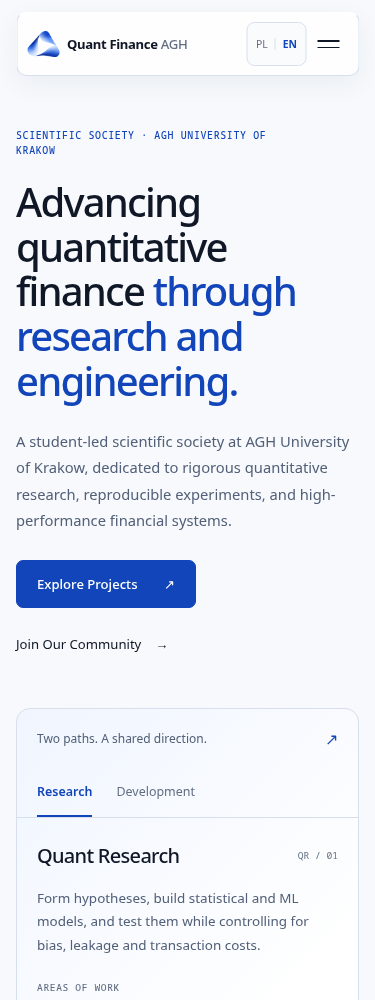
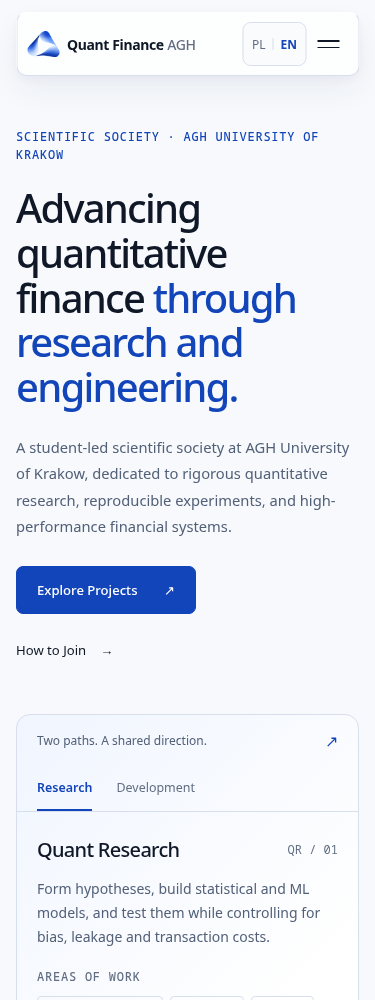
Refine Phase 1 hero, panel typography, and navigation glass

diff --git a/src/styles.css b/src/styles.css
@@ -43,22 +43,22 @@ a { color: inherit; }
 .visually-hidden { position: absolute; width: 1px; height: 1px; padding: 0; margin: -1px; overflow: hidden; clip-path: inset(50%); white-space: nowrap; border: 0; }
 .skip-link { position: fixed; left: 24px; top: 24px; z-index: 300; padding: 14px 20px; border-radius: 6px; background: var(--ink); color: white; transform: translateY(-150%); }
 .skip-link:focus { transform: none; }
-.eyebrow, .code-label { margin: 0; color: var(--accent); font: 500 .7rem/1.5 var(--mono); letter-spacing: .065em; text-transform: uppercase; }
+.eyebrow, .code-label { margin: 0; color: var(--accent); font: 500 .75rem/1.5 var(--mono); letter-spacing: .065em; text-transform: uppercase; }
 [data-reveal] { opacity: 0; transform: translateY(6px); transition: opacity 400ms ease, transform 400ms var(--ease-out); }
 [data-reveal][data-visible] { opacity: 1; transform: none; }
 
 /* Glass is limited to navigation. Opaque materials are the default fallback. */
 .site-header { position: fixed; z-index: 100; top: 24px; left: 50%; width: var(--shell); transform: translateX(-50%); }
-.site-header__material { position: relative; z-index: 2; min-height: 72px; display: flex; align-items: center; justify-content: space-between; gap: 24px; padding: 10px 22px; border: 1px solid var(--line); border-top-color: white; border-radius: var(--radius); background: var(--surface); box-shadow: var(--shadow), inset 0 1px 0 white; }
+.site-header__material { position: relative; z-index: 2; min-height: 72px; display: flex; align-items: center; justify-content: space-between; gap: 24px; padding: 10px 22px; border: 1px solid rgb(118 145 188 / 28%); border-top-color: rgb(255 255 255 / 90%); border-radius: var(--radius); background: var(--surface); box-shadow: 0 3px 12px rgb(25 53 100 / 4%), 0 14px 32px rgb(25 53 100 / 6%), inset 0 1px 0 rgb(255 255 255 / 65%); }
 .brand { display: inline-flex; align-items: center; gap: 12px; text-decoration: none; white-space: nowrap; }
-.brand__symbol { width: 44px; height: 37px; object-fit: contain; }
-.brand strong { font-size: 1rem; letter-spacing: -.025em; font-weight: 650; }
+.brand__symbol { width: 48px; height: 41px; object-fit: contain; }
+.brand strong { font-size: 1.0625rem; letter-spacing: -.025em; font-weight: 650; }
 .brand strong span { color: var(--quiet); font-weight: 450; }
 .desktop-navigation { display: flex; align-items: center; gap: 32px; }
-.desktop-navigation a { display: inline-flex; align-items: center; min-height: 44px; text-decoration: none; color: var(--muted); font-size: .82rem; }
+.desktop-navigation a { display: inline-flex; align-items: center; min-height: 44px; text-decoration: none; color: var(--muted); font-size: .875rem; }
 .desktop-navigation a:hover { color: var(--accent); }
 .header-actions { display: flex; align-items: center; gap: 12px; }
-.language-button { min-height: 44px; display: flex; align-items: center; gap: 10px; padding: 0 12px; border: 1px solid var(--line); border-radius: 8px; background: var(--bg); color: var(--quiet); cursor: pointer; font-size: .7rem; }
+.language-button { min-height: 44px; display: flex; align-items: center; gap: 10px; padding: 0 12px; border: 1px solid var(--line); border-radius: 8px; background: var(--bg); color: var(--quiet); cursor: pointer; font-size: .75rem; }
 .language-button span[data-active] { color: var(--accent); font-weight: 700; }
 .language-divider { width: 1px; height: 12px; background: var(--line); }
 .menu-button { display: none; width: 44px; height: 44px; padding: 12px 9px; border: 0; border-radius: 6px; background: transparent; color: var(--ink); cursor: pointer; }
@@ -66,48 +66,47 @@ a { color: inherit; }
 .menu-button[aria-expanded="true"] span:first-child { transform: translateY(3.25px) rotate(45deg); }
 .menu-button[aria-expanded="true"] span:last-child { transform: translateY(-3.25px) rotate(-45deg); }
 .mobile-menu-scrim, .mobile-menu { display: none; }
-@supports ((backdrop-filter: blur(1px)) or (-webkit-backdrop-filter: blur(1px))) {
-  .site-header__material, .mobile-menu { background: rgb(255 255 255 / 82%); -webkit-backdrop-filter: blur(22px) saturate(1.15); backdrop-filter: blur(22px) saturate(1.15); }
-  .language-button { background: rgb(247 249 252 / 72%); }
-}
 
 /* An editorial hero; the track panel supports the message without simulating data. */
-.hero { position: relative; display: grid; grid-template-columns: minmax(0, 1.55fr) minmax(0, 1fr); align-items: center; column-gap: 72px; padding-top: 208px; }
-.hero-copy { padding-block: 12px 32px; }
-.hero h1 { max-width: 780px; margin: 26px 0 30px; font-size: clamp(2.75rem, 4.15vw, 4rem); line-height: 1.09; letter-spacing: -.048em; font-weight: 520; text-wrap: balance; }
+.hero { position: relative; display: grid; grid-template-columns: minmax(0, 1.55fr) minmax(0, 1fr); align-items: center; column-gap: 64px; padding-top: 176px; }
+.hero-copy { padding-block: 0; }
+.hero h1 { max-width: 780px; margin: 22px 0 24px; font-size: clamp(2.75rem, 3.8vw, 3.25rem); line-height: 1.13; letter-spacing: -.048em; font-weight: 520; text-wrap: balance; }
+@media (min-width: 1101px) {
+  .hero h1 span, .hero h1 em { display: block; }
+}
 .hero h1 em { color: var(--accent); font-style: normal; }
-.hero-lead { max-width: 580px; margin: 0; color: var(--muted); font-size: 1rem; line-height: 1.8; }
-.hero-actions { display: flex; align-items: center; flex-wrap: wrap; gap: 24px; margin-top: 34px; }
+.hero-lead { max-width: 580px; margin: 0; color: var(--muted); font-size: 1rem; line-height: 1.75; }
+.hero-actions { display: flex; align-items: center; flex-wrap: wrap; gap: 24px; margin-top: 28px; }
 .primary-button { min-height: 48px; display: inline-flex; align-items: center; justify-content: space-between; gap: 26px; padding: 12px 20px; border: 1px solid var(--accent); border-radius: 7px; background: var(--accent); color: white; cursor: pointer; text-decoration: none; font-size: .82rem; font-weight: 550; }
 .primary-button:hover { background: #0f3794; border-color: #0f3794; }
 .secondary-link { min-height: 48px; display: inline-flex; align-items: center; gap: 14px; color: var(--ink); font-size: .82rem; text-decoration: none; }
 .secondary-link:hover { color: var(--accent); }
-.hero-caption { grid-column: 1 / -1; display: flex; justify-content: space-between; gap: 24px; margin-top: 80px; padding-block: 24px; border-top: 1px solid var(--line); color: var(--quiet); font: .65rem/1.6 var(--mono); letter-spacing: .06em; text-transform: uppercase; }
+.hero-caption { grid-column: 1 / -1; display: flex; justify-content: space-between; gap: 24px; margin-top: 48px; padding-block: 20px; border-top: 1px solid var(--line); color: var(--quiet); font: .75rem/1.6 var(--mono); letter-spacing: .06em; text-transform: uppercase; }
 .hero-caption > span:last-child { letter-spacing: 0; }
 .hero-caption span span { padding-inline: 10px; color: var(--blue-soft); }
 .path-console { overflow: hidden; border: 1px solid var(--line); border-radius: var(--radius); background: linear-gradient(135deg, #f0f5ff, #fff 70%); }
-.path-console__header { min-height: 60px; display: flex; align-items: center; justify-content: space-between; gap: 16px; padding: 16px 26px; color: var(--muted); font-size: .75rem; }
+.path-console__header { min-height: 52px; display: flex; align-items: center; justify-content: space-between; gap: 16px; padding: 14px 24px; color: var(--muted); font-size: .75rem; }
 .path-console__header > span:last-child { color: var(--accent); font-size: 1rem; }
-.path-tabs { display: flex; gap: 24px; padding-inline: 26px; border-bottom: 1px solid var(--line); }
-.path-tab { min-height: 48px; padding: 10px 0; border: 0; border-bottom: 2px solid transparent; background: transparent; color: var(--quiet); cursor: pointer; font-size: .78rem; }
+.path-tabs { display: flex; gap: 24px; padding-inline: 24px; border-bottom: 1px solid var(--line); }
+.path-tab { min-height: 44px; padding: 10px 0; border: 0; border-bottom: 2px solid transparent; background: transparent; color: var(--quiet); cursor: pointer; font-size: .78rem; }
 .path-tab:hover { color: var(--accent); }
 .path-tab[aria-selected="true"] { color: var(--accent); border-bottom-color: var(--accent); font-weight: 600; }
-.path-panel { padding: 28px 26px; }
+.path-panel { padding: 24px; }
 .path-panel[hidden] { display: none; }
 .path-panel__title { display: flex; align-items: center; justify-content: space-between; gap: 12px; }
 .path-panel__title h2 { margin: 0; font-size: 1.35rem; letter-spacing: -.035em; font-weight: 550; }
-.path-code { color: var(--quiet); font: .6rem var(--mono); white-space: nowrap; }
-.path-description { min-height: 92px; margin: 18px 0 24px; color: var(--muted); font-size: .84rem; line-height: 1.75; }
-.path-panel .code-label { color: var(--quiet); font-size: .6rem; }
-.skill-list { display: flex; flex-wrap: wrap; gap: 7px; padding: 0; margin: 12px 0 28px; list-style: none; min-height: 60px; align-content: flex-start; }
-.skill-list li { padding: 5px 9px; border: 1px solid var(--line); border-radius: 4px; color: var(--muted); font-size: .68rem; line-height: 1.4; }
-.path-output { padding-top: 20px; border-top: 1px solid var(--line); }
-.path-output span { display: block; margin-bottom: 8px; color: var(--quiet); font-size: .7rem; }
-.path-output strong { color: var(--accent); font: .67rem/1.7 var(--mono); font-weight: 400; overflow-wrap: anywhere; }
+.path-code { color: var(--quiet); font: .75rem var(--mono); white-space: nowrap; }
+.path-description { margin: 14px 0 20px; color: var(--muted); font-size: .875rem; line-height: 1.7; }
+.path-panel .code-label { color: var(--quiet); font-size: .75rem; }
+.skill-list { display: flex; flex-wrap: wrap; gap: 7px; padding: 0; margin: 10px 0 20px; list-style: none; align-content: flex-start; }
+.skill-list li { padding: 5px 9px; border: 1px solid var(--line); border-radius: 4px; color: var(--muted); font-size: .8125rem; line-height: 1.45; }
+.path-output { padding-top: 16px; border-top: 1px solid var(--line); }
+.path-output span { display: block; margin-bottom: 8px; color: var(--quiet); font-size: .75rem; }
+.path-output strong { color: var(--accent); font: .75rem/1.7 var(--mono); font-weight: 400; overflow-wrap: anywhere; }
 
 /* Existing lower sections: structure retained, foundations aligned to the brand. */
 .principle { min-height: 220px; display: grid; grid-template-columns: .67fr 1.33fr; border-bottom: 1px solid var(--line); }
-.principle__label { display: flex; align-items: center; padding-right: 40px; color: var(--accent); font: .65rem/1.6 var(--mono); text-transform: uppercase; }
+.principle__label { display: flex; align-items: center; padding-right: 40px; color: var(--accent); font: .75rem/1.6 var(--mono); text-transform: uppercase; }
 .principle p { margin: 0; align-self: center; padding-block: 48px; color: var(--muted); font-size: clamp(1.5rem, 2.2vw, 2.2rem); line-height: 1.3; letter-spacing: -.03em; }
 .principle p span { color: var(--ink); }
 .section-block { padding-block: var(--space-7); }
@@ -118,39 +117,39 @@ a { color: inherit; }
 .project-grid { display: grid; grid-template-columns: 1.2fr .9fr .9fr; border: 1px solid var(--line); border-radius: var(--radius); overflow: hidden; background: var(--surface); }
 .project-card { min-height: 400px; display: flex; flex-direction: column; padding: 24px; border-right: 1px solid var(--line); }
 .project-card:last-child { border-right: 0; }
-.project-card__meta { display: flex; justify-content: space-between; flex-wrap: wrap; gap: 12px; color: var(--quiet); font: .6rem/1.6 var(--mono); }
+.project-card__meta { display: flex; justify-content: space-between; flex-wrap: wrap; gap: 12px; color: var(--quiet); font: .75rem/1.6 var(--mono); }
 .project-card__visual { flex: 1; display: grid; place-items: center; min-height: 160px; color: var(--accent); }
 .project-card__visual span { font: 400 3rem/1 var(--mono); }
 .project-card__visual i { display: none; }
 .project-card__content { margin-top: auto; }
-.proposed-badge { display: inline-flex; margin-bottom: 14px; color: var(--accent); font: .65rem var(--mono); }
+.proposed-badge { display: inline-flex; margin-bottom: 14px; color: var(--accent); font: .75rem var(--mono); }
 .project-card h3 { margin: 0 0 12px; font-size: 1.25rem; letter-spacing: -.025em; font-weight: 550; }
 .project-card p { margin: 0; color: var(--muted); font-size: .85rem; line-height: 1.75; }
 .work-process { display: grid; grid-template-columns: repeat(4, 1fr); margin: 0; padding: 0; overflow: hidden; border: 1px solid var(--line); border-radius: var(--radius); list-style: none; background: var(--surface); }
 .work-step { min-height: 330px; display: flex; flex-direction: column; padding: 26px; border-right: 1px solid var(--line); }
 .work-step:last-child { border-right: 0; }
-.work-step__meta { display: flex; justify-content: space-between; gap: 12px; color: var(--quiet); font: .65rem var(--mono); }
+.work-step__meta { display: flex; justify-content: space-between; gap: 12px; color: var(--quiet); font: .75rem var(--mono); }
 .work-step__meta span:first-child { color: var(--accent); }
 .work-step h3 { margin: 48px 0 16px; font-size: 2rem; font-weight: 500; letter-spacing: -.04em; }
 .work-step p { margin: 0; color: var(--muted); font-size: .84rem; line-height: 1.75; }
-.work-step__output { margin-top: auto; padding-top: 24px; color: var(--accent); font: .65rem/1.6 var(--mono); }
+.work-step__output { margin-top: auto; padding-top: 24px; color: var(--accent); font: .75rem/1.6 var(--mono); }
 .community { padding-block: var(--space-7); border-bottom: 1px solid var(--line); background: #eef3fb; }
 .community__inner { display: grid; grid-template-columns: 1.12fr .88fr; gap: 64px; }
 .community__statement > p:last-child { max-width: 620px; margin: 24px 0 0; color: var(--muted); font-size: .95rem; line-height: 1.8; }
 .industry-card { display: flex; flex-direction: column; padding: 32px; border: 1px solid var(--line); border-radius: var(--radius); background: var(--surface); }
-.industry-card__header { color: var(--accent); font: .6rem/1.6 var(--mono); text-transform: uppercase; }
+.industry-card__header { color: var(--accent); font: .75rem/1.6 var(--mono); text-transform: uppercase; }
 .industry-card__header i { display: none; }
 .industry-card h3 { margin: 32px 0 18px; font-size: 1.65rem; line-height: 1.25; letter-spacing: -.03em; font-weight: 520; }
 .industry-card > p { margin: 0; color: var(--muted); font-size: .85rem; line-height: 1.75; }
 .industry-card ul { display: grid; grid-template-columns: repeat(3, 1fr); gap: 12px; margin: 28px 0 0; padding: 20px 0 0; border-top: 1px solid var(--line); list-style: none; }
 .industry-card li { display: grid; gap: 10px; }
-.industry-card li span { color: var(--accent); font: .6rem var(--mono); }
-.industry-card li strong { font-size: .72rem; font-weight: 500; }
+.industry-card li span { color: var(--accent); font: .75rem var(--mono); }
+.industry-card li strong { font-size: .75rem; font-weight: 500; }
 .community-pillars { grid-column: 1 / -1; display: grid; grid-template-columns: repeat(3, 1fr); border-top: 1px solid var(--line); }
 .community-pillars article { padding: 30px; border-right: 1px solid var(--line); }
 .community-pillars article:first-child { padding-left: 0; }
 .community-pillars article:last-child { border-right: 0; }
-.community-pillars span { color: var(--accent); font: .65rem var(--mono); }
+.community-pillars span { color: var(--accent); font: .75rem var(--mono); }
 .community-pillars h3 { margin: 32px 0 12px; font-size: 1.2rem; font-weight: 550; }
 .community-pillars p { margin: 0; color: var(--muted); font-size: .85rem; line-height: 1.75; }
 .recruitment { position: relative; padding-block: var(--space-7); }
@@ -161,7 +160,7 @@ a { color: inherit; }
 .requirements { border-top: 1px solid var(--line); }
 .requirements > h3 { margin: 0; padding: 22px 0; color: var(--muted); font-size: .8rem; font-weight: 500; }
 .requirements article { display: grid; grid-template-columns: 32px 1fr; gap: 18px; padding: 22px 0; border-top: 1px solid var(--line); }
-.requirements article > span { color: var(--accent); font: .65rem var(--mono); }
+.requirements article > span { color: var(--accent); font: .75rem var(--mono); }
 .requirements strong { font-size: .95rem; font-weight: 550; }
 .requirements article p { margin: 8px 0 0; color: var(--muted); font-size: .85rem; line-height: 1.75; }
 .requirements__note { margin: 24px 0 0; color: var(--quiet); font-size: .8rem; line-height: 1.7; }
@@ -178,7 +177,7 @@ a { color: inherit; }
 .application-items article { display: grid; grid-template-columns: 24px 1fr; gap: 18px; padding: 22px; border-right: 1px solid var(--line); border-bottom: 1px solid var(--line); }
 .application-items article:nth-child(2n) { border-right: 0; }
 .application-items article:nth-last-child(-n + 2) { border-bottom: 0; }
-.application-items article > span { color: var(--accent); font: .65rem var(--mono); }
+.application-items article > span { color: var(--accent); font: .75rem var(--mono); }
 .application-items h3 { margin: 0 0 9px; font-size: 1rem; font-weight: 550; }
 .application-items p { margin: 0; color: var(--muted); font-size: .85rem; line-height: 1.7; }
 .footer { display: grid; grid-template-columns: 1fr auto 1fr; gap: 64px; padding-block: 48px 64px; border-top: 1px solid var(--line); }
@@ -186,10 +185,10 @@ a { color: inherit; }
 .footer__brand strong { font-size: .9rem; font-weight: 600; }
 .footer__brand p { grid-column: 1 / -1; max-width: 330px; margin: 12px 0 0; color: var(--quiet); font-size: .8rem; line-height: 1.75; }
 .footer__links { display: grid; grid-template-columns: repeat(2, auto); gap: 12px 24px; }
-.footer__links > span { grid-column: 1 / -1; margin-bottom: 8px; color: var(--quiet); font: .65rem var(--mono); }
+.footer__links > span { grid-column: 1 / -1; margin-bottom: 8px; color: var(--quiet); font: .75rem var(--mono); }
 .footer__links a { color: var(--muted); font-size: .8rem; text-decoration: none; }
 .footer__links a:hover { color: var(--accent); }
-.footer__meta { justify-self: end; display: grid; justify-items: end; align-content: start; gap: 15px; color: var(--quiet); font: .65rem/1.6 var(--mono); }
+.footer__meta { justify-self: end; display: grid; justify-items: end; align-content: start; gap: 15px; color: var(--quiet); font: .75rem/1.6 var(--mono); }
 .footer-status { color: var(--accent); }
 
 @media (max-width: 1100px) {
@@ -203,7 +202,7 @@ a { color: inherit; }
   .mobile-menu a { display: flex; align-items: center; justify-content: space-between; min-height: 56px; padding: 12px 16px; color: var(--ink); border-radius: 6px; text-decoration: none; font-size: .95rem; }
   .mobile-menu a:hover { background: var(--surface-raised); }
   .mobile-menu a span { color: var(--accent); }
-  .hero { padding-top: 176px; column-gap: 40px; grid-template-columns: minmax(0, 1.2fr) minmax(0, 1fr); }
+  .hero { padding-top: 160px; column-gap: 40px; grid-template-columns: minmax(0, 1.2fr) minmax(0, 1fr); }
   .hero h1 { font-size: clamp(2.5rem, 4.7vw, 3.25rem); }
   .path-panel { padding: 24px 20px; }
   .path-tabs { padding-inline: 20px; }
@@ -223,7 +222,7 @@ a { color: inherit; }
 }
 @media (max-width: 800px) {
   :root { --shell: calc(100% - 48px); --space-7: 80px; }
-  .hero { grid-template-columns: 1fr; gap: 40px; padding-top: 164px; }
+  .hero { grid-template-columns: 1fr; gap: 32px; padding-top: 144px; }
   .hero-copy { padding: 0; }
   .hero h1 { max-width: 650px; font-size: clamp(2.5rem, 6.6vw, 3.4rem); }
   .hero-console { max-width: 600px; }
@@ -246,21 +245,21 @@ a { color: inherit; }
   .site-header__material { min-height: 64px; padding: 8px 10px; gap: 8px; border-radius: 10px; }
   .brand { gap: 8px; }
   .brand__symbol { width: 32px; height: 28px; }
-  .brand strong { font-size: .82rem; }
+  .brand strong { font-size: .875rem; }
   .header-actions { gap: 2px; }
-  .language-button { gap: 7px; padding-inline: 8px; font-size: .65rem; }
+  .language-button { gap: 7px; padding-inline: 8px; font-size: .75rem; }
   .menu-button { width: 40px; }
   .mobile-menu { top: 76px; }
   .mobile-menu-scrim { top: -12px; }
   .hero { padding-top: 128px; gap: 40px; }
-  .hero .eyebrow { max-width: 280px; font-size: .62rem; }
+  .hero .eyebrow { max-width: 100%; font-size: .75rem; }
   .hero h1 { margin-block: 22px 24px; font-size: 2.5rem; line-height: 1.12; letter-spacing: -.045em; }
   .hero-lead { font-size: .92rem; line-height: 1.8; }
   .hero-actions { margin-top: 26px; gap: 12px; align-items: flex-start; flex-direction: column; }
-  .hero-caption { gap: 8px; flex-direction: column; margin-top: 4px; padding-block: 20px; font-size: .6rem; }
+  .hero-caption { gap: 8px; flex-direction: column; margin-top: 4px; padding-block: 20px; font-size: .75rem; }
   .path-panel__title h2 { font-size: 1.25rem; }
   .path-panel { padding: 24px 20px; }
-  .path-output strong { font-size: .62rem; }
+  .path-output strong { font-size: .75rem; }
   .section-heading { margin-bottom: 32px; }
   .section-heading h2, .community__statement h2, .recruitment__copy h2 { font-size: 2rem; }
   .work-process { grid-template-columns: 1fr; }
@@ -276,6 +275,10 @@ a { color: inherit; }
   .application-items article { border-right: 0; }
   .application-items article:nth-last-child(2) { border-bottom: 1px solid var(--line); }
   .footer { grid-template-columns: 1fr; gap: 32px; }
+}
+@supports ((backdrop-filter: blur(1px)) or (-webkit-backdrop-filter: blur(1px))) {
+  .site-header__material, .mobile-menu { background: rgb(255 255 255 / 74%); -webkit-backdrop-filter: blur(16px) saturate(1.1); backdrop-filter: blur(16px) saturate(1.1); }
+  .language-button { background: rgb(247 249 252 / 65%); }
 }
 @media (prefers-reduced-motion: reduce) {
   html { scroll-behavior: auto; }

diff --git a/src/content.ts b/src/content.ts
@@ -132,7 +132,7 @@ export const siteCopy: Record<Language, SiteCopy> = {
       accent: "przez badania i inżynierię.",
       lead: "Studenckie koło naukowe przy AGH w Krakowie. Łączymy rzetelne badania ilościowe, odtwarzalne eksperymenty i budowę wydajnych systemów finansowych.",
       primaryAction: "Poznaj projekty",
-      secondaryAction: "Dołącz do społeczności",
+      secondaryAction: "Jak dołączyć",
       consoleLabel: "Dwie ścieżki. Wspólny kierunek.",
       skillsLabel: "Obszary pracy",
       signature: "Ludzie. Modele. Rynki.",
@@ -283,7 +283,7 @@ export const siteCopy: Record<Language, SiteCopy> = {
       accent: "through research and engineering.",
       lead: "A student-led scientific society at AGH University of Krakow, dedicated to rigorous quantitative research, reproducible experiments, and high-performance financial systems.",
       primaryAction: "Explore Projects",
-      secondaryAction: "Join Our Community",
+      secondaryAction: "How to Join",
       consoleLabel: "Two paths. A shared direction.",
       skillsLabel: "Areas of work",
       signature: "People. Models. Markets.",

diff --git a/src/App.tsx b/src/App.tsx
@@ -15,9 +15,9 @@ const PREFERENCES_KEY = "agh-qf:preferences:v1";
 function readInitialLanguage(): Language {
   try {
     const preferences = JSON.parse(localStorage.getItem(PREFERENCES_KEY) ?? "null") as { language?: unknown } | null;
-    return preferences?.language === "en" ? "en" : "pl";
+    return preferences?.language === "pl" ? "pl" : "en";
   } catch {
-    return "pl";
+    return "en";
   }
 }
 
@@ -28,7 +28,11 @@ export default function App() {
 
   useEffect(() => {
     document.documentElement.lang = language;
-    localStorage.setItem(PREFERENCES_KEY, JSON.stringify({ language }));
+    try {
+      localStorage.setItem(PREFERENCES_KEY, JSON.stringify({ language }));
+    } catch {
+      // Keep language switching usable when browser storage is unavailable.
+    }
   }, [language]);
 
   return (

diff --git a/index.html b/index.html
@@ -1,11 +1,11 @@
 <!doctype html>
-<html lang="pl">
+<html lang="en">
   <head>
     <meta charset="UTF-8" />
     <meta name="viewport" content="width=device-width, initial-scale=1.0" />
     <meta
       name="description"
-      content="Quant Finance AGH — studenckie koło naukowe łączące badania ilościowe, odtwarzalne eksperymenty i inżynierię systemów finansowych."
+      content="Quant Finance AGH — a student-led scientific society at AGH University of Krakow for quantitative research, reproducible experiments, and financial systems engineering."
     />
     <meta name="theme-color" content="#f7f9fc" />
     <link rel="icon" type="image/png" href="/favicon.png" />

diff --git a/src/components/Header.tsx b/src/components/Header.tsx
@@ -52,7 +52,7 @@ export function Header({ copy, language, languageLabel, onToggleLanguage }: Head
     <header className="site-header">
       <div className="site-header__material">
         <a className="brand pressable" href="#top" aria-label="Quant Finance AGH" onClick={closeMenu}>
-          <img className="brand__symbol" src="/brand/qfc-symbol.png" width="44" height="37" alt="" fetchPriority="high" />
+          <img className="brand__symbol" src="/brand/qfc-symbol.png" width="48" height="41" alt="" fetchPriority="high" />
           <strong>Quant Finance <span>AGH</span></strong>
         </a>
         <nav className="desktop-navigation" aria-label={copy.navigationLabel}>

diff --git a/docs/phase-1-review.md b/docs/phase-1-review.md
@@ -1,4 +1,4 @@
-# Brand redesign — Phase 1 review
+# Brand identity — Phase 1 and Phase 1.1 review
 
 Baseline: `agent/react-signal-desk`, commit `182b467`. Review branch: `design/brand-redesign-phase-1`.
 
@@ -29,15 +29,49 @@ Baseline: `agent/react-signal-desk`, commit `182b467`. Review branch: `design/br
 
 `npm ci` reports two pre-existing high-severity audit findings in development dependencies (`brace-expansion` and `source-map-js`). `npm audit --omit=dev` reports zero vulnerabilities. Dependency upgrades are outside this visual phase.
 
+## Phase 1.1 refinement
+
+The approved composition is retained. Desktop headlines separate the research statement from its engineering clause, with a consistent 52px maximum size. The panel uses natural content heights instead of empty reserved space. Small text has a 12px floor; skill labels are 13px. Logo prominence increases slightly on desktop while the mobile header stays compact.
+
+| Detail | Phase 1 | Phase 1.1 |
+| --- | --- | --- |
+| Desktop hero top spacing | 208px | 176px |
+| Headline-to-paragraph gap | 30px | 24px |
+| Paragraph-to-actions gap | 34px | 28px |
+| Hero caption top spacing | 80px | 48px |
+| Description / skill-list reserved height | 92px / 60px | Natural content height |
+| Panel metadata / skill labels | 9.6px / 10.88px | 12px / 13px |
+| Header white opacity / backdrop blur | 82% / 22px | 74% / 16px |
+| Desktop logo width | 44px | 48px |
+| Secondary CTA | Join Our Community / Dołącz do społeczności | How to Join / Jak dołączyć |
+| First-time language | Polish | English; explicit saved PL/EN preferences retained |
+
+The navigation uses a quieter layered shadow, a controlled translucent border, and a white inner edge. The backdrop enhancement follows responsive rules so mobile navigation receives the same material. Solid defaults and preference overrides remain in place.
+
+Phase 1.1 checks: lint, TypeScript/Vite build, Chromium PL/EN at 375/768/1440/1920px, no horizontal overflow or runtime errors, tab keyboard controls, mobile menu focus and navigation, recruitment dialog, skip link, and reduced-motion/transparency support. Browser text audit found no visible text below 12px. Fresh visits, invalid stored JSON, explicit saved preferences, and language switching when storage is unavailable were checked. Project descriptions and dependency files are unchanged.
+
 ## Screenshots
 
-Captured from the running Vite site at 1440 × 1000 and 375 × 1000, showing the header and hero. The mobile page continues below the viewport.
+Updated Phase 1.1 captures from the running Vite site at 1440 × 1000 and 375 × 1000, showing the header and hero. The mobile page continues below the viewport.
 
 | Language | Desktop | Mobile |
 | --- | --- | --- |
 | Polish | [Desktop](screenshots/pl-desktop.png) | [Mobile](screenshots/pl-mobile.png) |
 | English | [Desktop](screenshots/en-desktop.png) | [Mobile](screenshots/en-mobile.png) |
 
+| Comparison | Phase 1 | Phase 1.1 |
+| --- | --- | --- |
+| English desktop | [Before](screenshots/phase-1/en-desktop.png) | [After](screenshots/en-desktop.png) |
+| English mobile | [Before](screenshots/phase-1/en-mobile.png) | [After](screenshots/en-mobile.png) |
+| Polish desktop | [Before](screenshots/phase-1/pl-desktop.png) | [After](screenshots/pl-desktop.png) |
+| Polish mobile | [Before](screenshots/phase-1/pl-mobile.png) | [After](screenshots/pl-mobile.png) |
+
+The before images are unchanged screenshots from commit `a026927`.
+
+[Scrolled desktop navigation over project content](screenshots/en-desktop-scrolled.png).
+
 ![English desktop preview](screenshots/en-desktop.png)
+
+![Scrolled navigation material](screenshots/en-desktop-scrolled.png)
 
 Phase 2 remains pending review.

diff --git a/README.md b/README.md
@@ -33,7 +33,7 @@ npm run build
 
 ## Identyfikacja wizualna — Phase 1
 
-Jasny system wizualny oparty na oficjalnym symbolu QFC: niebieskie akcenty, czytelna typografia systemowa i szkło ograniczone do nawigacji. Navbar i hero są dwujęzyczne; struktura i treść pozostałych sekcji zostały zachowane.
+Jasny system wizualny oparty na oficjalnym symbolu QFC: niebieskie akcenty, czytelna typografia systemowa i szkło ograniczone do nawigacji. Navbar i hero są dwujęzyczne; nowi użytkownicy zaczynają od wersji EN, a zapisany wybór PL/EN jest zachowany; struktura i treść pozostałych sekcji zostały zachowane.
 
 [Decyzje projektowe i wyniki weryfikacji](docs/phase-1-review.md).
 
